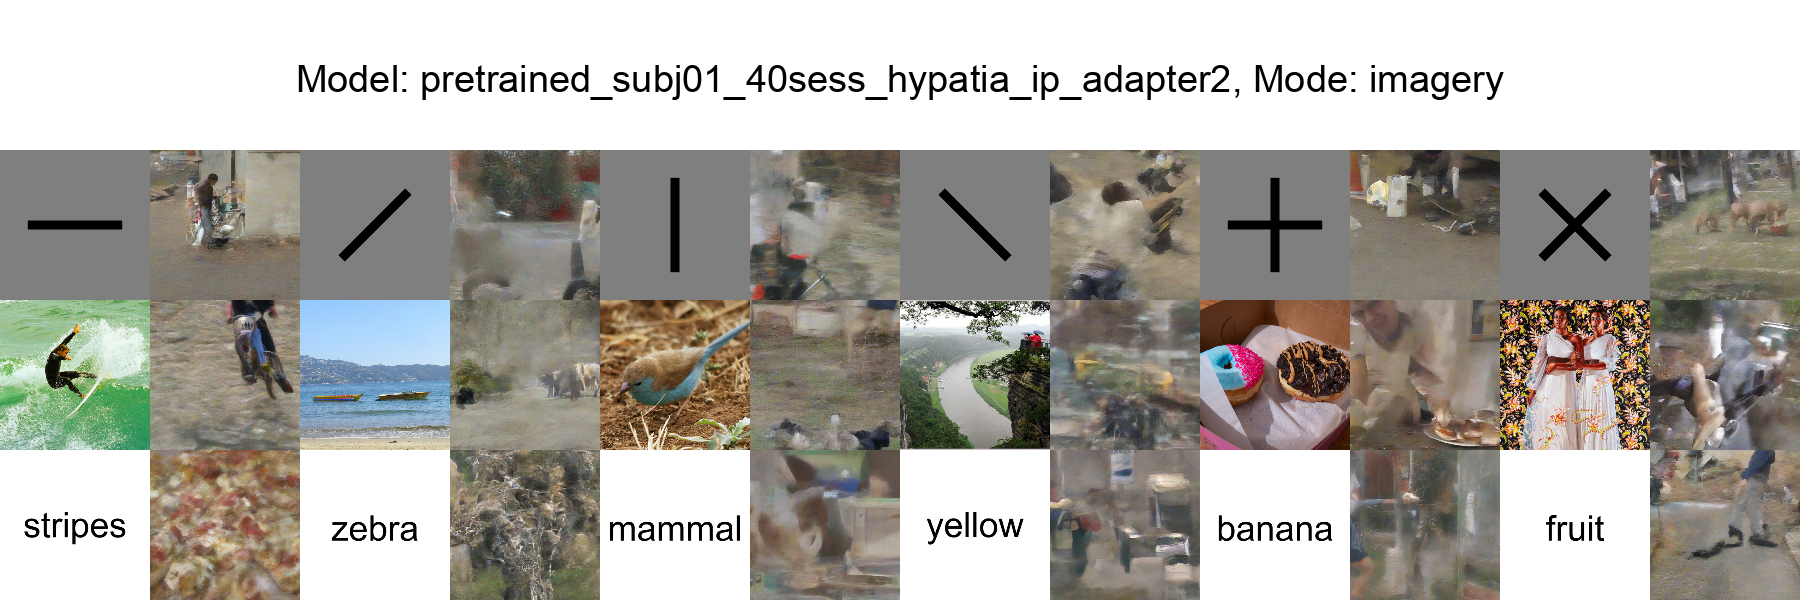
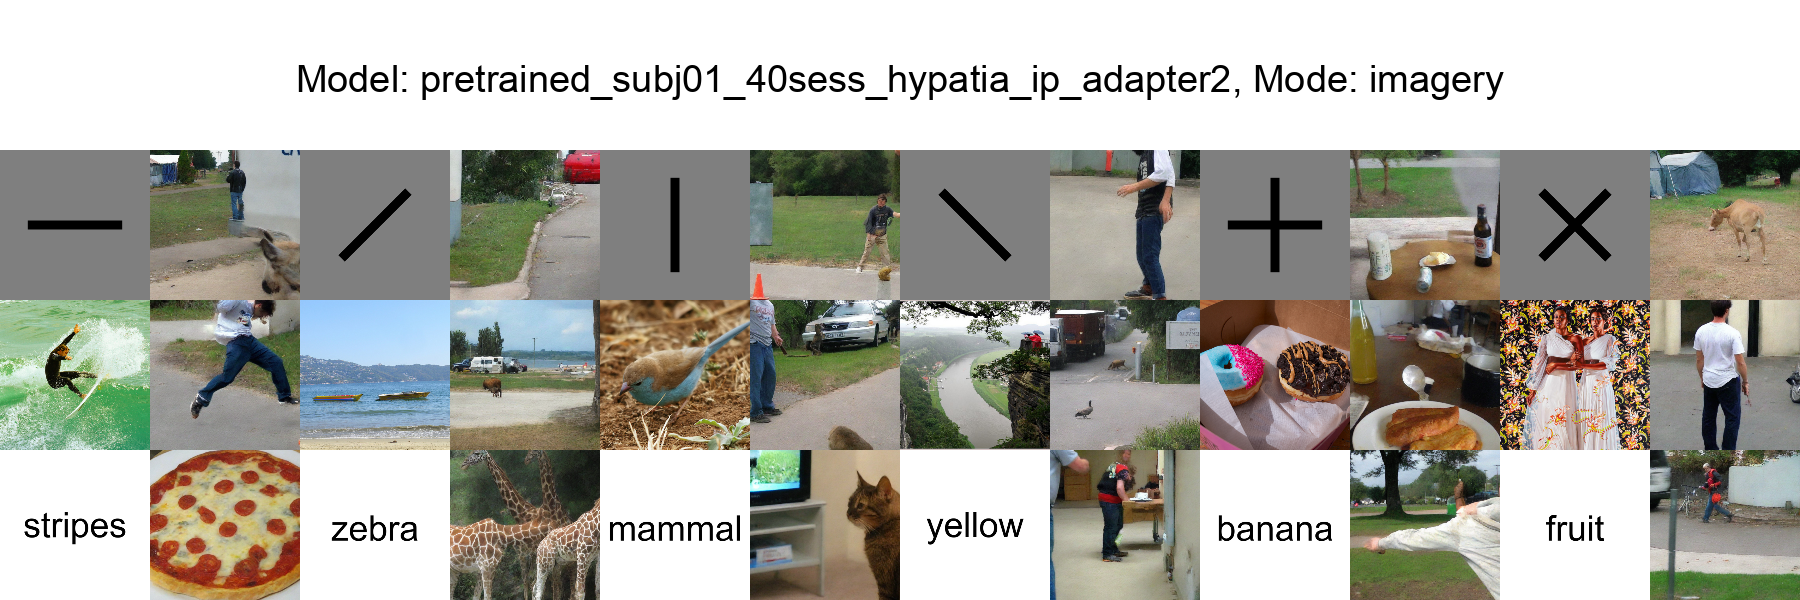
Fixing models to include necessary IP Adapter modules, including fixed recons for non-plus model, updating setup.sh to properly install packes

diff --git a/src/models.py b/src/models.py
@@ -12,11 +12,24 @@ from safetensors import safe_open
 from tqdm import tqdm
 from typing import List
 import utils
-from ip_adapter import IPAdapter, ImageProjModel
+# from ip_adapter import IPAdapter#, ImageProjModel
 from ip_adapter.resampler import Resampler
-from ip_adapter.utils import get_generator
+from ip_adapter.utils import is_torch2_available, get_generator
+if is_torch2_available():
+    from ip_adapter.attention_processor import (
+        AttnProcessor2_0 as AttnProcessor,
+    )
+    from ip_adapter.attention_processor import (
+        CNAttnProcessor2_0 as CNAttnProcessor,
+    )
+    from ip_adapter.attention_processor import (
+        IPAttnProcessor2_0 as IPAttnProcessor,
+    )
+else:
+    from ip_adapter.attention_processor import AttnProcessor, CNAttnProcessor, IPAttnProcessor
 from transformers import CLIPImageProcessor, CLIPVisionModelWithProjection
 
+from diffusers import StableDiffusionPipeline, LCMScheduler
 from diffusers.models.vae import Decoder
 class BrainNetwork(nn.Module):
     def __init__(self, h=4096, in_dim=15724, out_dim=768, seq_len=2, n_blocks=4, drop=.15, clip_size=768, blurry_recon=True, clip_scale=1):
@@ -823,6 +836,188 @@ class GNet8_Encoder():
         gnet8j_image_pred = self.gnet8j_predictions(self.stim_data, self._pred_fn, 64, 192, self.joined_checkpoint, mask, batch_size=100, device=self.device)
 
         return torch.from_numpy(gnet8j_image_pred[self.subject])
+
+class ImageProjModel(torch.nn.Module):
+    """Projection Model"""
+
+    def __init__(self, cross_attention_dim=1024, clip_embeddings_dim=1024, clip_extra_context_tokens=4):
+        super().__init__()
+
+        self.generator = None
+        self.cross_attention_dim = cross_attention_dim
+        self.clip_extra_context_tokens = clip_extra_context_tokens
+        self.proj = torch.nn.Linear(clip_embeddings_dim, self.clip_extra_context_tokens * cross_attention_dim)
+        self.norm = torch.nn.LayerNorm(cross_attention_dim)
+
+    def forward(self, image_embeds):
+        embeds = image_embeds
+        clip_extra_context_tokens = self.proj(embeds).reshape(
+            -1, self.clip_extra_context_tokens, self.cross_attention_dim
+        )
+        clip_extra_context_tokens = self.norm(clip_extra_context_tokens)
+        return clip_extra_context_tokens
+
+class IPAdapter:
+    def __init__(self, sd_pipe, image_encoder_path, ip_ckpt, device, num_tokens=4, lora=True):
+        self.device = device
+        self.image_encoder_path = image_encoder_path
+        self.ip_ckpt = ip_ckpt
+        self.num_tokens = num_tokens
+
+        self.pipe = sd_pipe#.to(self.device)
+        self.set_ip_adapter()
+
+        # load image encoder
+        self.image_encoder = CLIPVisionModelWithProjection.from_pretrained(self.image_encoder_path).to(
+            self.device, dtype=torch.float16
+        )
+        self.clip_image_processor = CLIPImageProcessor()
+        # image proj model
+        self.image_proj_model = self.init_proj()
+
+        self.load_ip_adapter()
+
+        if lora:
+            print("Loading LORA weights")
+            self.pipe.scheduler = LCMScheduler.from_config(self.pipe.scheduler.config)
+            self.pipe.load_lora_weights("latent-consistency/lcm-lora-sdxl", torch_dtype=torch.float16)
+            self.pipe.fuse_lora()
+            self.pipe.enable_model_cpu_offload()
+
+    def init_proj(self):
+        image_proj_model = ImageProjModel(
+            cross_attention_dim=self.pipe.unet.config.cross_attention_dim,
+            clip_embeddings_dim=self.image_encoder.config.projection_dim,
+            clip_extra_context_tokens=self.num_tokens,
+        ).to(self.device, dtype=torch.float16)
+        return image_proj_model
+
+    def set_ip_adapter(self):
+        unet = self.pipe.unet
+        attn_procs = {}
+        for name in unet.attn_processors.keys():
+            cross_attention_dim = None if name.endswith("attn1.processor") else unet.config.cross_attention_dim
+            if name.startswith("mid_block"):
+                hidden_size = unet.config.block_out_channels[-1]
+            elif name.startswith("up_blocks"):
+                block_id = int(name[len("up_blocks.")])
+                hidden_size = list(reversed(unet.config.block_out_channels))[block_id]
+            elif name.startswith("down_blocks"):
+                block_id = int(name[len("down_blocks.")])
+                hidden_size = unet.config.block_out_channels[block_id]
+            if cross_attention_dim is None:
+                attn_procs[name] = AttnProcessor()
+            else:
+                attn_procs[name] = IPAttnProcessor(
+                    hidden_size=hidden_size,
+                    cross_attention_dim=cross_attention_dim,
+                    scale=1.0,
+                    num_tokens=self.num_tokens,
+                ).to(self.device, dtype=torch.float16)
+        unet.set_attn_processor(attn_procs)
+        if hasattr(self.pipe, "controlnet"):
+            # if isinstance(self.pipe.controlnet, MultiControlNetModel):
+            for controlnet in self.pipe.controlnet.nets:
+                controlnet.set_attn_processor(CNAttnProcessor(num_tokens=self.num_tokens))
+            # else:
+            #     self.pipe.controlnet.set_attn_processor(CNAttnProcessor(num_tokens=self.num_tokens))
+
+    def load_ip_adapter(self):
+        if os.path.splitext(self.ip_ckpt)[-1] == ".safetensors":
+            state_dict = {"image_proj": {}, "ip_adapter": {}}
+            with safe_open(self.ip_ckpt, framework="pt", device="cpu") as f:
+                for key in f.keys():
+                    if key.startswith("image_proj."):
+                        state_dict["image_proj"][key.replace("image_proj.", "")] = f.get_tensor(key)
+                    elif key.startswith("ip_adapter."):
+                        state_dict["ip_adapter"][key.replace("ip_adapter.", "")] = f.get_tensor(key)
+        else:
+            state_dict = torch.load(self.ip_ckpt, map_location="cpu")
+        self.image_proj_model.load_state_dict(state_dict["image_proj"])
+        ip_layers = torch.nn.ModuleList(self.pipe.unet.attn_processors.values())
+        ip_layers.load_state_dict(state_dict["ip_adapter"])
+
+    @torch.inference_mode()
+    def get_image_embeds(self, pil_image=None, clip_image_embeds=None):
+        if pil_image is not None:
+            if isinstance(pil_image, Image.Image):
+                pil_image = [pil_image]
+            clip_image = self.clip_image_processor(images=pil_image, return_tensors="pt").pixel_values
+            clip_image_embeds = self.image_encoder(clip_image.to(self.device, dtype=torch.float16)).image_embeds
+        else:
+            clip_image_embeds = clip_image_embeds.to(self.device, dtype=torch.float16)
+        image_prompt_embeds = self.image_proj_model(clip_image_embeds)
+        uncond_image_prompt_embeds = self.image_proj_model(torch.zeros_like(clip_image_embeds))
+        return image_prompt_embeds, uncond_image_prompt_embeds
+
+    def set_scale(self, scale):
+        for attn_processor in self.pipe.unet.attn_processors.values():
+            if isinstance(attn_processor, IPAttnProcessor):
+                attn_processor.scale = scale
+
+    def generate(
+        self,
+        pil_image=None,
+        clip_image_embeds=None,
+        prompt=None,
+        negative_prompt=None,
+        scale=1.0,
+        num_samples=4,
+        seed=None,
+        guidance_scale=7.5,
+        num_inference_steps=30,
+        **kwargs,
+    ):
+        self.set_scale(scale)
+
+        if pil_image is not None:
+            num_prompts = 1 if isinstance(pil_image, Image.Image) else len(pil_image)
+        else:
+            num_prompts = clip_image_embeds.size(0)
+
+        if prompt is None:
+            prompt = "best quality, high quality"
+        if negative_prompt is None:
+            negative_prompt = "monochrome, lowres, bad anatomy, worst quality, low quality"
+
+        if not isinstance(prompt, List):
+            prompt = [prompt] * num_prompts
+        if not isinstance(negative_prompt, List):
+            negative_prompt = [negative_prompt] * num_prompts
+
+        image_prompt_embeds, uncond_image_prompt_embeds = self.get_image_embeds(
+            pil_image=pil_image, clip_image_embeds=clip_image_embeds
+        )
+        bs_embed, seq_len, _ = image_prompt_embeds.shape
+        image_prompt_embeds = image_prompt_embeds.repeat(1, num_samples, 1)
+        image_prompt_embeds = image_prompt_embeds.view(bs_embed * num_samples, seq_len, -1)
+        uncond_image_prompt_embeds = uncond_image_prompt_embeds.repeat(1, num_samples, 1)
+        uncond_image_prompt_embeds = uncond_image_prompt_embeds.view(bs_embed * num_samples, seq_len, -1)
+
+        with torch.inference_mode():
+            prompt_embeds_, negative_prompt_embeds_ = self.pipe.encode_prompt(
+                prompt,
+                device=self.device,
+                num_images_per_prompt=num_samples,
+                do_classifier_free_guidance=True,
+                negative_prompt=negative_prompt,
+            )
+            print("PROMPT EMBEDS: ", prompt_embeds.shape)
+            prompt_embeds = torch.cat([prompt_embeds_, image_prompt_embeds], dim=1)
+            negative_prompt_embeds = torch.cat([negative_prompt_embeds_, uncond_image_prompt_embeds], dim=1)
+
+        generator = get_generator(seed, self.device)
+
+        images = self.pipe(
+            prompt_embeds=prompt_embeds,
+            negative_prompt_embeds=negative_prompt_embeds,
+            guidance_scale=guidance_scale,
+            num_inference_steps=num_inference_steps,
+            generator=generator,
+            **kwargs,
+        ).images
+
+        return images
 
 class IPAdapterPlusXLEmbedder:
     def __init__(self, image_encoder_path, ip_ckpt, device, num_tokens):
